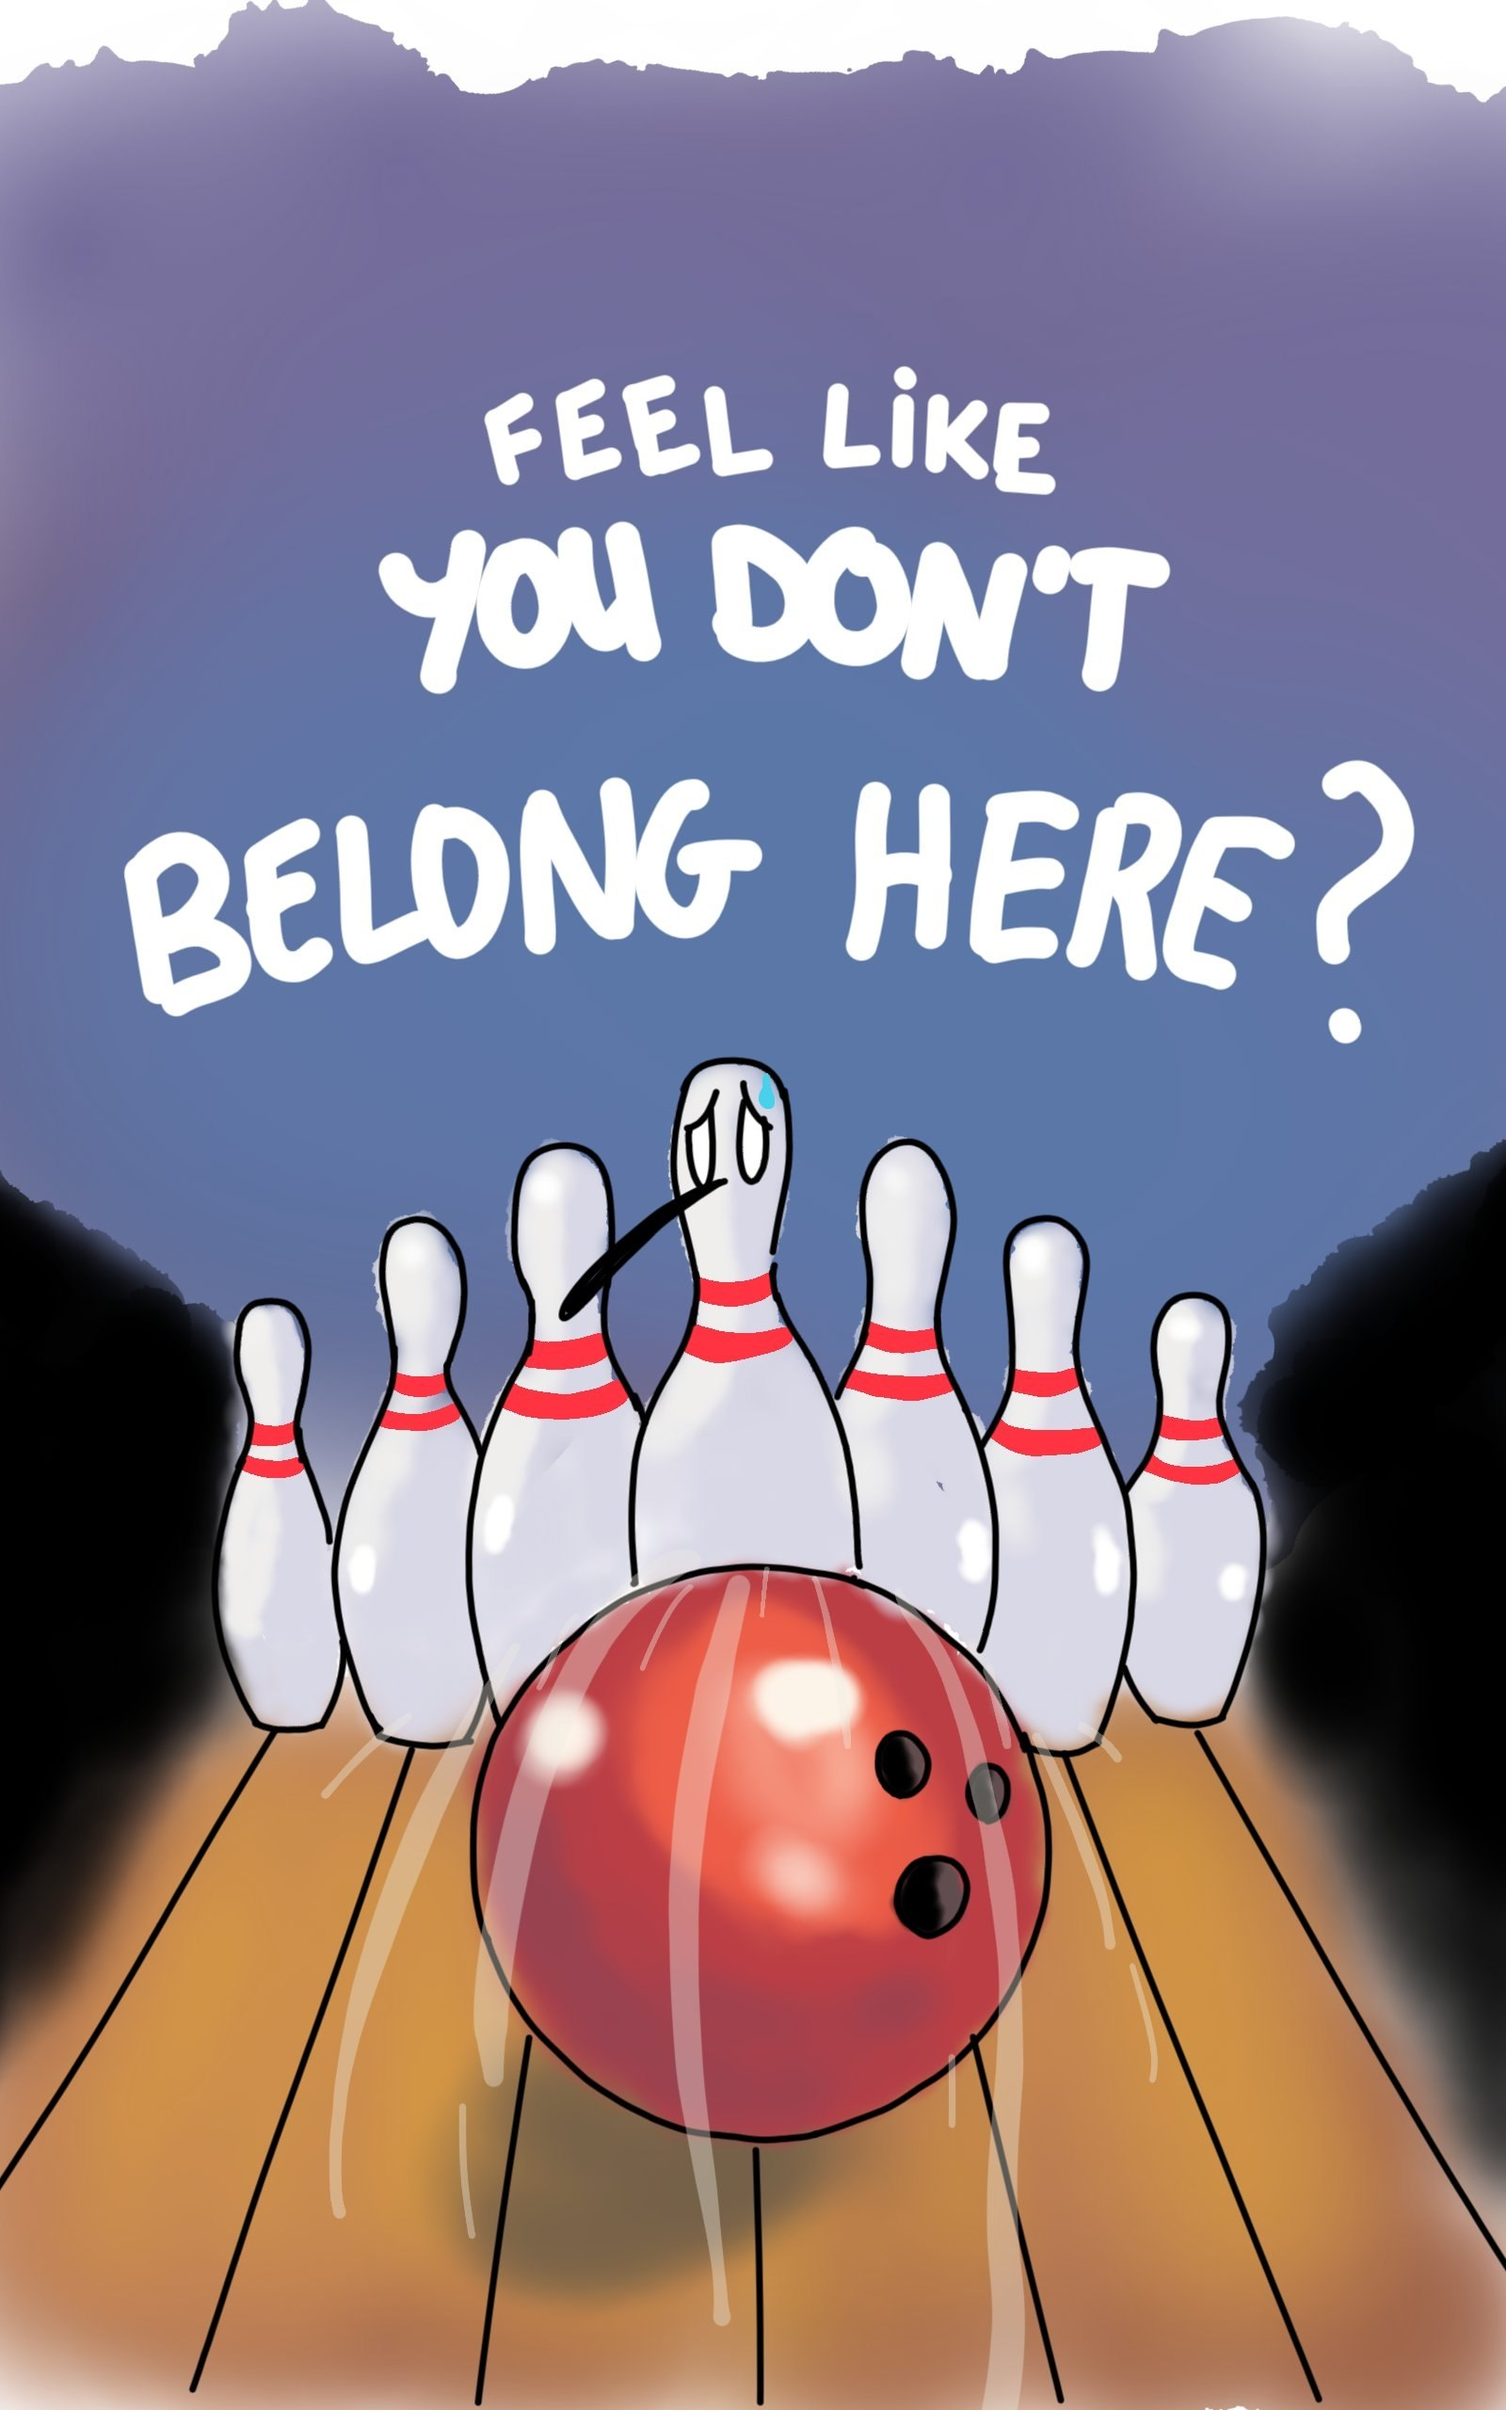
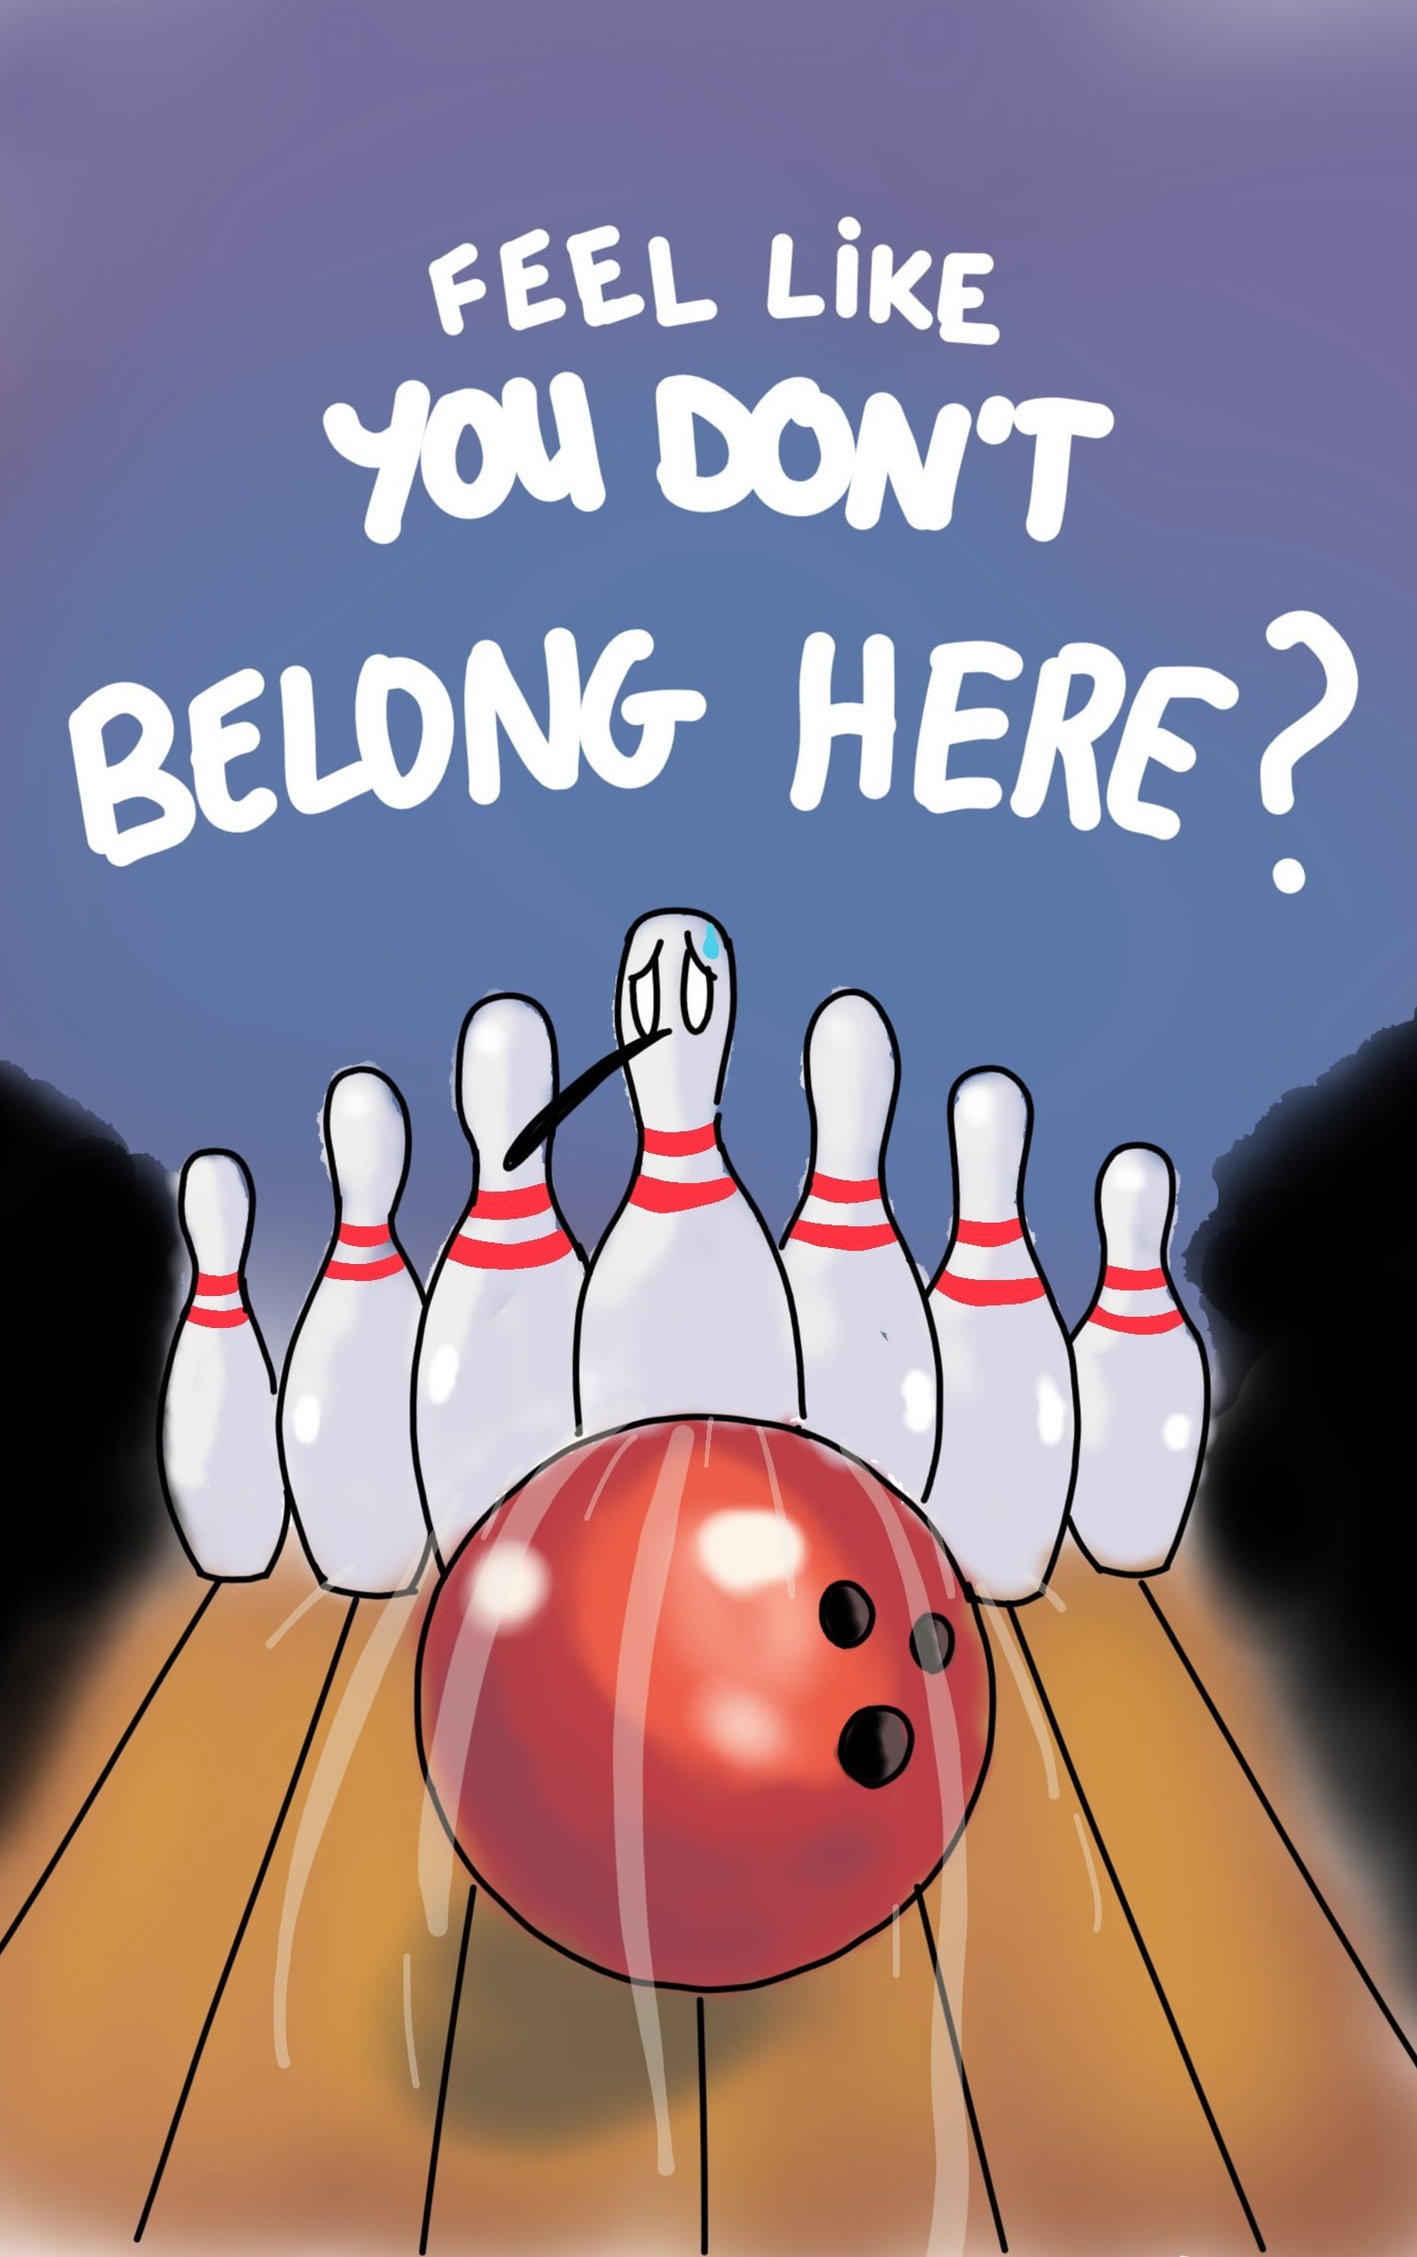
Multiple images swipe on sides for comic strips

diff --git a/src/components/gallery/gallery.tsx b/src/components/gallery/gallery.tsx
@@ -1,17 +1,98 @@
 "use client";
 
-import { useState, useEffect } from "react";
-import Image from "next/image"
-import type { ArtworkType } from "artwork"
+import { useState, useEffect, useCallback, useRef } from "react";
+import Image from "next/image";
+import type { ArtworkType } from "artwork";
+
+const SWIPE_THRESHOLD = 50; // px nécessaires pour changer d'image
+
+function Arrow({
+  direction,
+  onClick,
+}: {
+  direction: "left" | "right";
+  onClick: () => void;
+}) {
+  return (
+    <button
+      type="button"
+      onClick={(e) => {
+        e.stopPropagation();
+        onClick();
+      }}
+      aria-label={direction === "left" ? "Image précédente" : "Image suivante"}
+      style={{
+        position: "absolute",
+        top: "50%",
+        [direction]: "0.75rem",
+        transform: "translateY(-50%)",
+        zIndex: 2,
+        width: "2.75rem",
+        height: "2.75rem",
+        display: "flex",
+        alignItems: "center",
+        justifyContent: "center",
+        border: "none",
+        borderRadius: "50%",
+        color: "#fff",
+        backgroundColor: "rgba(0, 0, 0, 0.45)",
+        backdropFilter: "blur(4px)",
+        WebkitBackdropFilter: "blur(4px)",
+        cursor: "pointer",
+      }}
+    >
+      <svg
+        width="22"
+        height="22"
+        viewBox="0 0 24 24"
+        fill="none"
+        stroke="currentColor"
+        strokeWidth="2"
+        strokeLinecap="round"
+        strokeLinejoin="round"
+        aria-hidden="true"
+      >
+        {direction === "left" ? (
+          <polyline points="15 18 9 12 15 6" />
+        ) : (
+          <polyline points="9 18 15 12 9 6" />
+        )}
+      </svg>
+    </button>
+  );
+}
 
 function Artwork({ imageSrc, imageAlt, imageRatio, imageTitle }: ArtworkType) {
+  const images = Array.isArray(imageSrc) ? imageSrc : [imageSrc];
+  const count = images.length;
+  const hasMany = count > 1;
+
   const [open, setOpen] = useState(false);
+  const [index, setIndex] = useState(0);
+
+  // Swipe
+  const [dragX, setDragX] = useState(0);
+  const [dragging, setDragging] = useState(false);
+  const startX = useRef<number | null>(null);
+  const startY = useRef<number | null>(null);
+  const isHorizontal = useRef<boolean | null>(null);
+
+  const canGoPrev = index > 0;
+  const canGoNext = index < count - 1;
+
+  const goPrev = useCallback(() => setIndex((i) => Math.max(0, i - 1)), []);
+  const goNext = useCallback(
+    () => setIndex((i) => Math.min(count - 1, i + 1)),
+    [count]
+  );
 
   useEffect(() => {
     if (!open) return;
 
     const onKeyDown = (e: KeyboardEvent) => {
       if (e.key === "Escape") setOpen(false);
+      if (e.key === "ArrowLeft") goPrev();
+      if (e.key === "ArrowRight") goNext();
     };
     document.addEventListener("keydown", onKeyDown);
 
@@ -22,13 +103,54 @@ function Artwork({ imageSrc, imageAlt, imageRatio, imageTitle }: ArtworkType) {
       document.removeEventListener("keydown", onKeyDown);
       document.body.style.overflow = previousOverflow;
     };
-  }, [open]);
+  }, [open, goPrev, goNext]);
+
+  const openModal = () => {
+    setIndex(0);
+    setOpen(true);
+  };
+
+  const onTouchStart = (e: React.TouchEvent) => {
+    if (!hasMany) return;
+    startX.current = e.touches[0].clientX;
+    startY.current = e.touches[0].clientY;
+    isHorizontal.current = null;
+    setDragging(true);
+  };
+
+  const onTouchMove = (e: React.TouchEvent) => {
+    if (startX.current === null || startY.current === null) return;
+    const dx = e.touches[0].clientX - startX.current;
+    const dy = e.touches[0].clientY - startY.current;
+
+    // On détermine la direction du geste une seule fois
+    if (isHorizontal.current === null && (Math.abs(dx) > 6 || Math.abs(dy) > 6)) {
+      isHorizontal.current = Math.abs(dx) > Math.abs(dy);
+    }
+    if (!isHorizontal.current) return;
+
+    // Résistance aux extrémités
+    const blocked = (dx > 0 && !canGoPrev) || (dx < 0 && !canGoNext);
+    setDragX(blocked ? dx * 0.25 : dx);
+  };
+
+  const onTouchEnd = () => {
+    if (startX.current === null) return;
+    if (dragX <= -SWIPE_THRESHOLD && canGoNext) goNext();
+    else if (dragX >= SWIPE_THRESHOLD && canGoPrev) goPrev();
+
+    startX.current = null;
+    startY.current = null;
+    isHorizontal.current = null;
+    setDragX(0);
+    setDragging(false);
+  };
 
   return (
     <>
       {/* Miniature */}
       <div
-        onClick={() => setOpen(true)}
+        onClick={openModal}
         style={{
           position: "relative",
           aspectRatio: `${imageRatio}`,
@@ -37,7 +159,28 @@ function Artwork({ imageSrc, imageAlt, imageRatio, imageTitle }: ArtworkType) {
           cursor: "pointer",
         }}
       >
-        <Image alt={imageAlt} src={imageSrc} fill sizes="(max-width: 768px) 100vw, 33vw" />
+        <Image
+          alt={imageAlt}
+          src={images[0]}
+          fill
+          sizes="(max-width: 768px) 100vw, 33vw"
+        />
+        {hasMany && (
+          <span
+            style={{
+              position: "absolute",
+              right: "0.5rem",
+              bottom: "0.5rem",
+              padding: "0.15rem 0.55rem",
+              borderRadius: "999px",
+              fontSize: "0.8rem",
+              color: "#fff",
+              backgroundColor: "rgba(0, 0, 0, 0.55)",
+            }}
+          >
+            {count} images
+          </span>
+        )}
       </div>
 
       {/* Modal */}
@@ -63,21 +206,69 @@ function Artwork({ imageSrc, imageAlt, imageRatio, imageTitle }: ArtworkType) {
         >
           <div
             onClick={(e) => e.stopPropagation()}
+            onTouchStart={onTouchStart}
+            onTouchMove={onTouchMove}
+            onTouchEnd={onTouchEnd}
+            onTouchCancel={onTouchEnd}
             style={{
               position: "relative",
               aspectRatio: `${imageRatio}`,
               // L'image prend le maximum de place sans dépasser l'écran, en gardant son ratio
               width: `min(100%, calc((100vh - 4rem) * ${imageRatio}))`,
               cursor: "default",
+              overflow: hasMany ? "hidden" : "visible",
+              touchAction: hasMany ? "pan-y" : "auto",
             }}
           >
-            <Image
-              alt={imageAlt}
-              src={imageSrc}
-              fill
-              sizes="100vw"
-              style={{ objectFit: "contain" }}
-            />
+            {/* Piste horizontale : une "case" par image */}
+            <div
+              style={{
+                display: "flex",
+                width: "100%",
+                height: "100%",
+                transform: `translateX(calc(${-index * 100}% + ${dragX}px))`,
+                transition: dragging ? "none" : "transform 0.3s ease",
+              }}
+            >
+              {images.map((src, i) => (
+                <div
+                  key={src}
+                  style={{ position: "relative", flex: "0 0 100%", height: "100%" }}
+                  aria-hidden={i !== index}
+                >
+                  <Image
+                    alt={hasMany ? `${imageAlt} (${i + 1}/${count})` : imageAlt}
+                    src={src}
+                    fill
+                    sizes="100vw"
+                    style={{ objectFit: "contain" }}
+                    draggable={false}
+                  />
+                </div>
+              ))}
+            </div>
+
+            {hasMany && canGoPrev && <Arrow direction="left" onClick={goPrev} />}
+            {hasMany && canGoNext && <Arrow direction="right" onClick={goNext} />}
+
+            {hasMany && (
+              <span
+                style={{
+                  position: "absolute",
+                  left: "50%",
+                  bottom: "0.75rem",
+                  transform: "translateX(-50%)",
+                  padding: "0.15rem 0.65rem",
+                  borderRadius: "999px",
+                  fontSize: "0.85rem",
+                  color: "#fff",
+                  backgroundColor: "rgba(0, 0, 0, 0.5)",
+                  pointerEvents: "none",
+                }}
+              >
+                {index + 1} / {count}
+              </span>
+            )}
           </div>
         </div>
       )}
@@ -85,26 +276,26 @@ function Artwork({ imageSrc, imageAlt, imageRatio, imageTitle }: ArtworkType) {
   );
 }
 
-
-export default function Gallery({artworks}:{artworks: ArtworkType[]}) {
-
-    
-    return (<>
-        <div 
-            style={{
-                display:"flex", 
-                flexDirection:"row", 
-                flexWrap: "wrap",
-                width:"100%", 
-                gap:"13px", 
-                padding:"13px"
-            }
-        }>
-            {artworks.map((artwork) => (
-                <Artwork key={artwork.imageSrc} {...artwork} />
-            ))}
-        </div>
-    
-    
-    </>)
+export default function Gallery({ artworks }: { artworks: ArtworkType[] }) {
+  return (
+    <>
+      <div
+        style={{
+          display: "flex",
+          flexDirection: "row",
+          flexWrap: "wrap",
+          width: "100%",
+          gap: "13px",
+          padding: "13px",
+        }}
+      >
+        {artworks.map((artwork) => (
+          <Artwork
+            key={Array.isArray(artwork.imageSrc) ? artwork.imageSrc[0] : artwork.imageSrc}
+            {...artwork}
+          />
+        ))}
+      </div>
+    </>
+  );
 }

diff --git a/src/app/photos/serie2/page.tsx b/src/app/photos/serie2/page.tsx
@@ -31,7 +31,7 @@ const evry: ArtworkType[] = [{
 }
 ]
 
-
+{/*
 function Artwork({imageSrc, imageAlt, imageRatio, imageTitle}: ArtworkType) {
     return (
             <div className={styles.artwork}>
@@ -59,14 +59,14 @@ function FiveImagesGallery({artworks}:{artworks: ArtworkType[]}) {
     
     </>)
 }
-
+*/}
 export default function Serie2() {
     return (<>
         <p>En juillet 2024, la ville d’Évry a lancé un projet de transformation du quartier Parc aux Lièvres. Ce projet, dont la fin est prévue pour l’année 2028, a débuté par une phase de démolition de l’ensemble immobilier de la dalle.</p>
         <p>D’avril à juin 2025, j’ai régulièrement pris des photos du chantier pendant mes allers-retours entre mon appartement et mon campus.</p>
         <p>Un engin doté d’un long bras mécanique, surmonté d’une pince (visible sur la photo du 13 juin), a grignoté le béton petit à petit, jusqu’à ce qu’il ne reste plus rien. </p>
         
-        <FiveImagesGallery artworks={evry}/>
+        {/*<FiveImagesGallery artworks={evry}/>*/}
         
         
         </>

diff --git a/src/app/kiwis/data.ts b/src/app/kiwis/data.ts
@@ -235,28 +235,10 @@ export const kiwisData: Record<string, ArtworkType[]> = {
     ],
     "comicstrip": [
         {
-            imageTitle: "Manuel 1",
-            imageSrc:"/static/kiwis/manuel1.jpg",
+            imageTitle: "Manuel",
+            imageSrc:["/static/kiwis/manuel1.jpg", "/static/kiwis/manuel2.jpg", "/static/kiwis/manuel3.jpg"],
             imageAlt: "Méchant manuel.",
             imageRatio: 968/938
-        },
-        {
-            imageTitle: "Manuel 2",
-            imageSrc:"/static/kiwis/manuel2.jpg",
-            imageAlt: "Méchant manuel.",
-            imageRatio: 968/938
-        },
-        {
-            imageTitle: "Manuel 3",
-            imageSrc:"/static/kiwis/manuel3.jpg",
-            imageAlt: "Méchant manuel.",
-            imageRatio: 968/938
-        },
-        {
-            imageTitle: "C'est triste",
-            imageSrc:"/static/kiwis/triste.jpg",
-            imageAlt: "Triste triste.",
-            imageRatio: 2560/2279
         }
     ]
 }

diff --git a/src/types/artwork.d.ts b/src/types/artwork.d.ts
@@ -1,6 +1,6 @@
 declare module "artwork" {
   export type ArtworkType = {
-    imageSrc:string, 
+    imageSrc:string | string[], 
     imageAlt:string, 
     imageTitle?:string, 
     imageRatio:number
